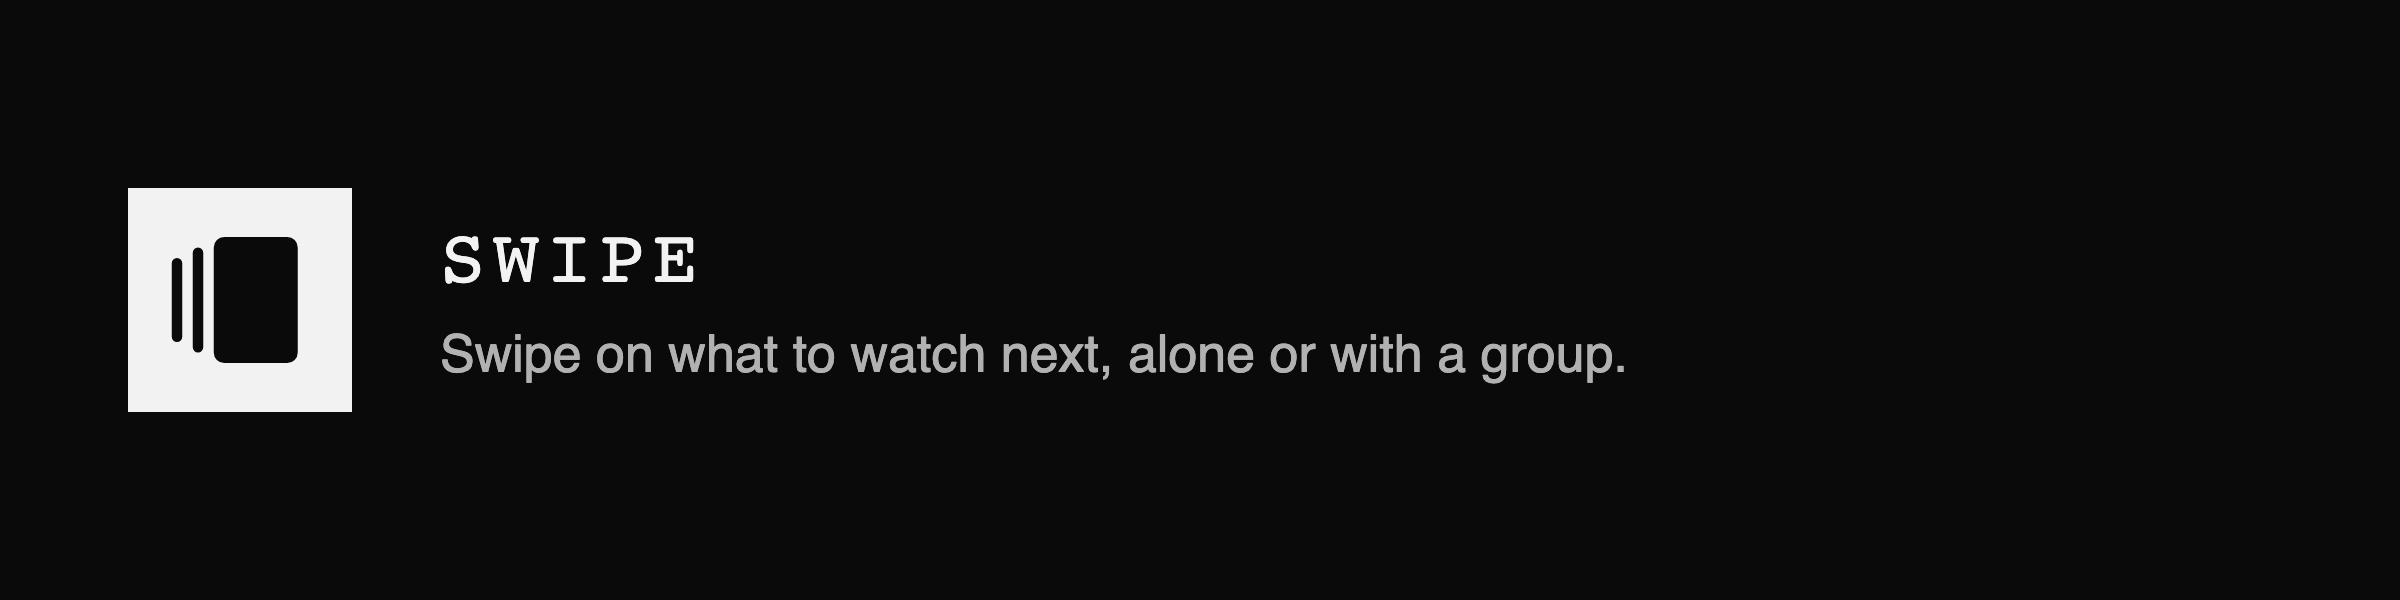
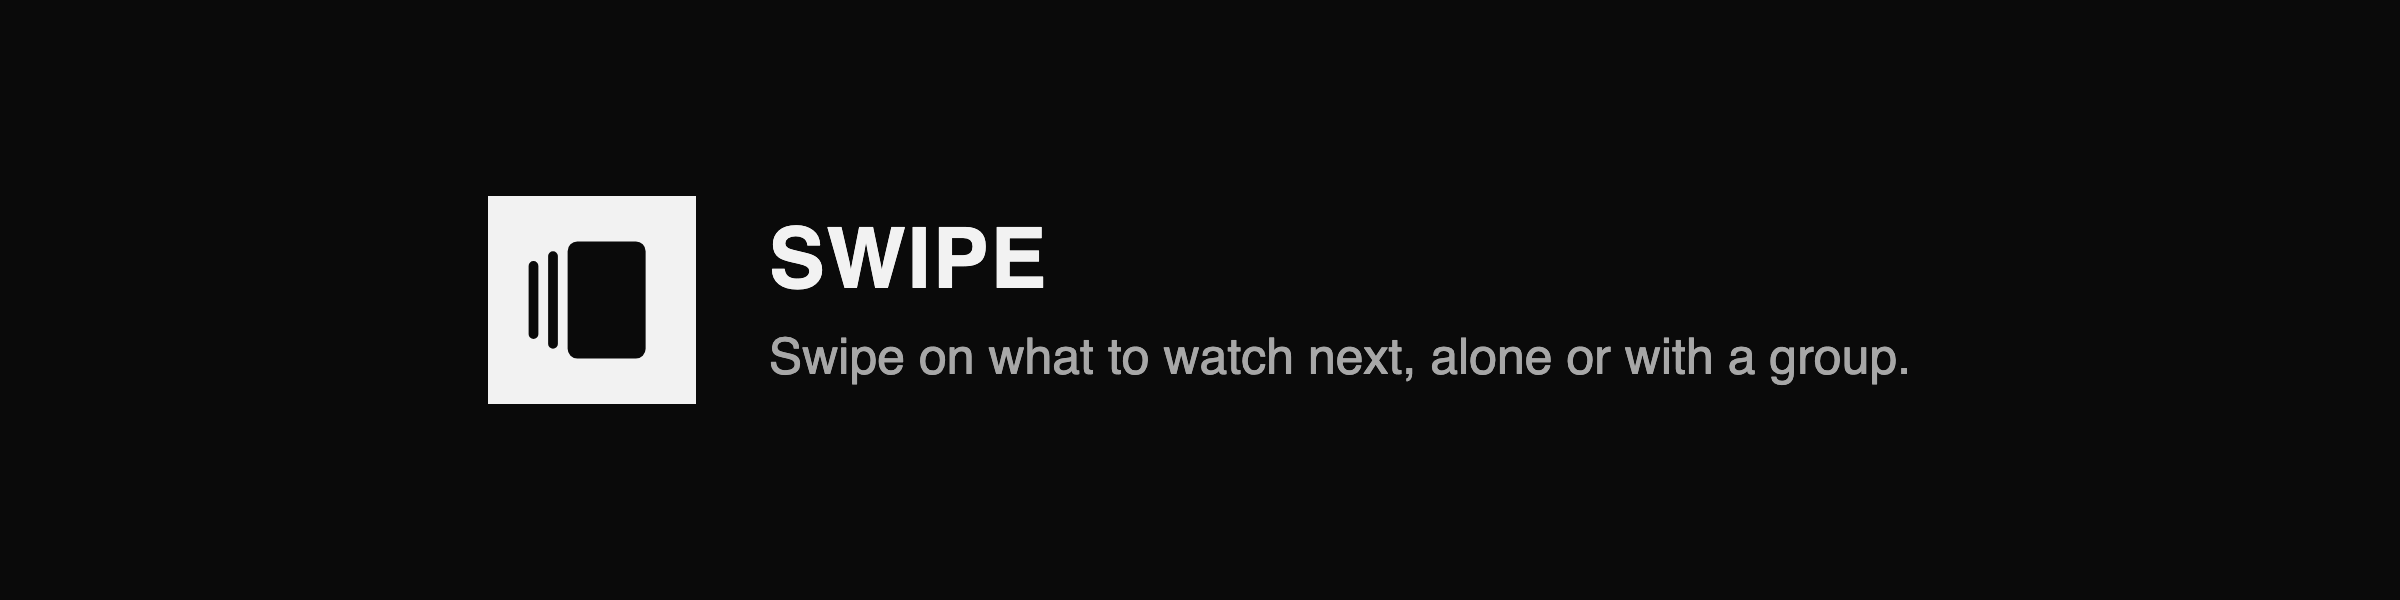
docs: the title page carries a real deck, and the version it ships
The banner is the centred, mono-free cover; the proof is a capture of the public demo in TMDB mode with the deck open, so no live library is in the picture. The fact line now names v2.6.0, the release that is actually newest.

Changed region(s): [[0.1875, 0.3, 0.8125, 0.69], [0.0312, 0.3, 0.1562, 0.69]]

diff --git a/README.md b/README.md
@@ -6,7 +6,7 @@
 
 **Swipe on what to watch next, alone or with a group.**
 
-`MIT` · `Next` · `SQLite` · `v2.0.0` · `ghcr.io/jakobbjelver/messer-swipe`
+`MIT` · `Next` · `SQLite` · `v2.6.0` · `ghcr.io/jakobbjelver/messer-swipe`
 <!-- /messer:hero -->
 
 Swipe turns "what should we watch?" into a deck everyone can agree on. One person creates a session, the
@@ -15,6 +15,11 @@ others join from a phone, and the app finds the titles two people liked — or t
 It works with the media server you already run (Jellyfin, Plex, Emby) or standalone against TMDB, with
 no server at all. Mobile-first, installable, and it keeps its own tiny SQLite database of sessions,
 swipes and matches.
+
+<picture>
+  <source media="(prefers-color-scheme: dark)" srcset="docs/brand/screen-dark.png">
+  <img src="docs/brand/screen-light.png" alt="The deck: one card with its poster, tags and rating, and the pass, like, undo and filter controls" width="1200">
+</picture>
 
 ## Run
 
